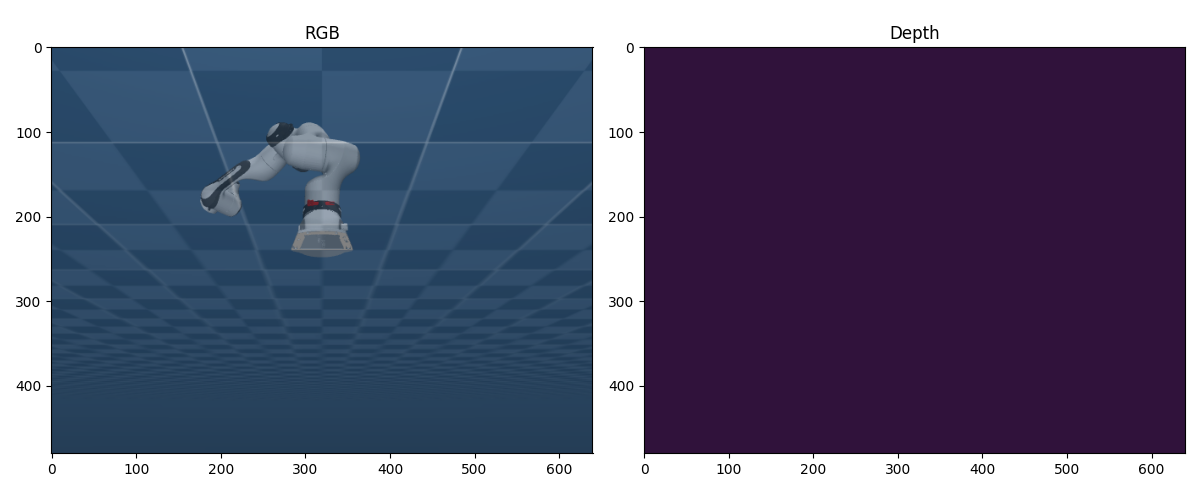
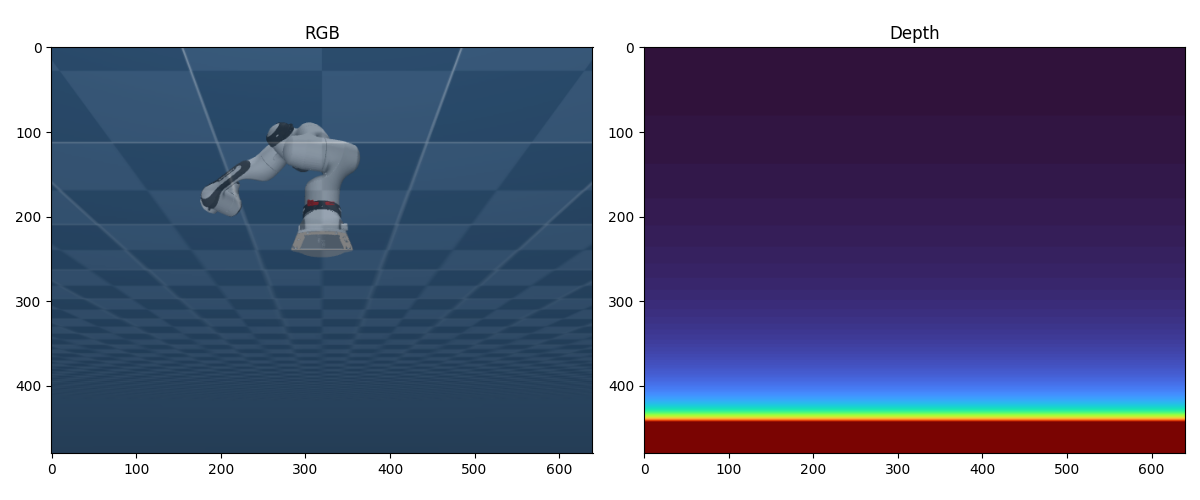
depth i think works

Changed region(s): [[0.5242, 0.45, 0.9867, 0.93]]

diff --git a/sim/sim_data_mj.py b/sim/sim_data_mj.py
@@ -160,17 +160,22 @@ class SimEnv:
                 self.renderer.update_scene(self.data, scene_camera, scene_option)
                 
                 rgb = self.renderer.render()
+                 
+                # enable depth rendering 
+                self.renderer.enable_depth_rendering()
+                self.renderer.update_scene(self.data, scene_camera, scene_option)
+                depth = self.renderer.render()
+
+                # depth is rendered as an image where pixel intensity = depth (extract depth values)
+                if depth.ndim == 3:
+                       depth = depth[:, :, 0]
+
+                self.renderer.disable_depth_rendering()
+                return rgb, depth.astype(np.float32), cam
+
+
+
                 
-                # Get depth - check if method exists
-                if hasattr(self.renderer, 'read_depth'):
-                    depth = self.renderer.read_depth()
-                elif hasattr(self.renderer, 'render_depth'):
-                    depth = self.renderer.render_depth()
-                else:
-                    # Fallback: render again with depth enabled
-                    depth = np.zeros((self.h, self.w), dtype=np.float32)
-                
-                return rgb, depth, cam
 
         def reset(self):
                 mujoco.mj_resetData(self.model, self.data)
